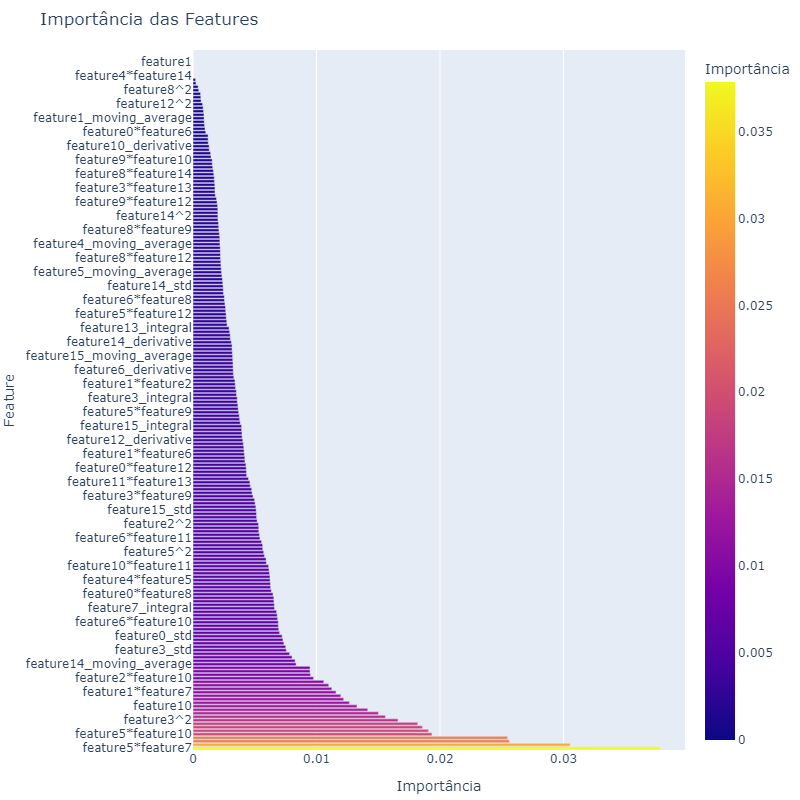
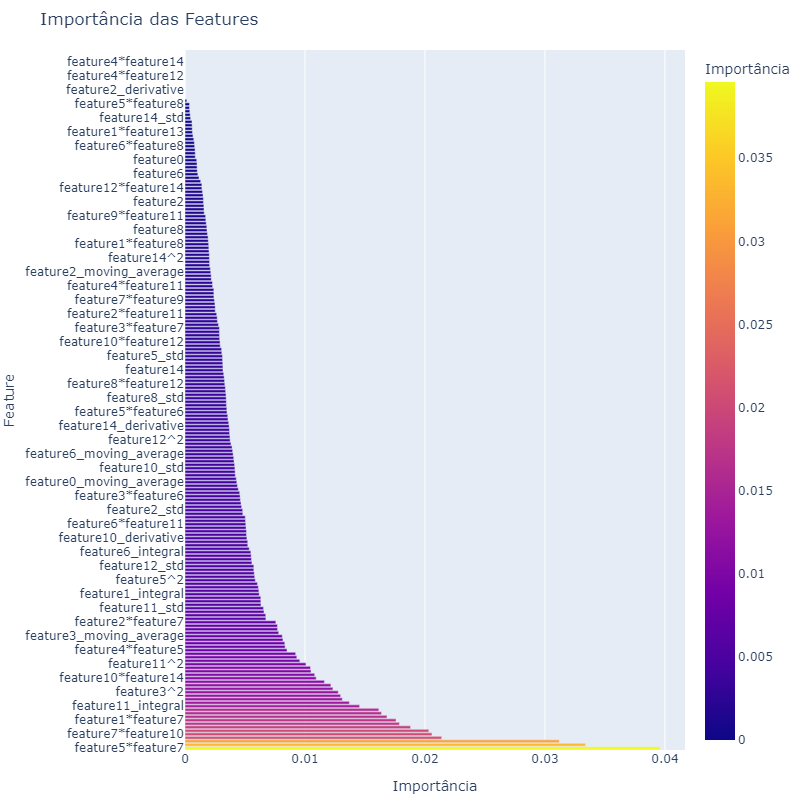
Versao final doc

diff --git a/utils/split_data.py b/utils/split_data.py
@@ -16,7 +16,7 @@ class SplitData():
 
         return X_train, y_train, x_val, y_val, x_test, y_test
 
-    def split_train_test(self, train_size=0.8):
+    def split_train_test(self, train_size=1):
         df_train = self.input_data.iloc[:(int(len(self.input_data)*train_size))]
         df_test = self.input_data.iloc[(int(len(self.input_data)*train_size)):]
 

diff --git a/main.py b/main.py
@@ -105,7 +105,9 @@ print("Average F1 score: %0.4f (+/- %0.2f)" % (f1_scores.mean(), f1_scores.std()
 print('')
 print('')
 # %% Ploting the Feature Importance
+verbose=True
 if verbose:
+    forest = forest.fit(X_train,y_train)
     features = list(X_train.columns)
     plot_importance(forest,features)
 #%% Optuna tunning

diff --git a/README.md b/README.md
@@ -97,6 +97,13 @@ Já que o nosso problema é levemente desbalanceado (mais ocorrências da Classe
 
 Os resultados obtidos pelo modelo criado, para mim, foram extremamente satisfatórios principalmente pela boa generalização que pode ser observada através do KFold. Um F1 <em>score</em> médio de 0.72 é muito bom, ainda mais considerando o leve desbalanceamento do nosso problema e a pequena quantidade de amostras de entrada.
 
+### 5.3) Variáveis mais importantes
+Outro ponto positivo da utilização das árvores é que conseguimos visualizar quais são as variáveis que estão sendo consideradas como as mais importantes para a realização das predições. Para fazer essa análise, treinei o modelo com todas as amostras fornecidas. A seguir, é apresentado o gráfico com apenas algumas variáveis:
+<br>
+![Screenshot](figures/feature_importance.png)
+<br>
+O interessante de analisarmos aqui é que a maioria esmagadora das variáveis consideradas como sendo as mais relevantes pelo modelo são oriundas do processo de <em>feature engineering</em>, ressaltando, novamente, a importância desta etapa.
+
 ## 6) Entrega do modelo
 Para a entrega do modelo, treinei o modelo referenciado na seção de Modelagem com todos os dados fornecidos e salvei, via <em>joblib</em> um arquivo de modelo que pode ser encontrado na pasta <em>"saved_model"</em>. Com isso, é possível baixar o arquivo e realizar predições para outro conjunto de dados, se for o caso.
 
